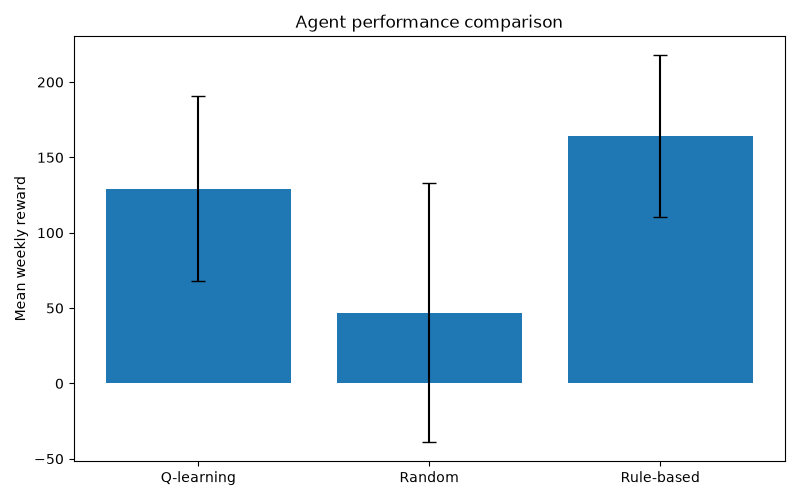
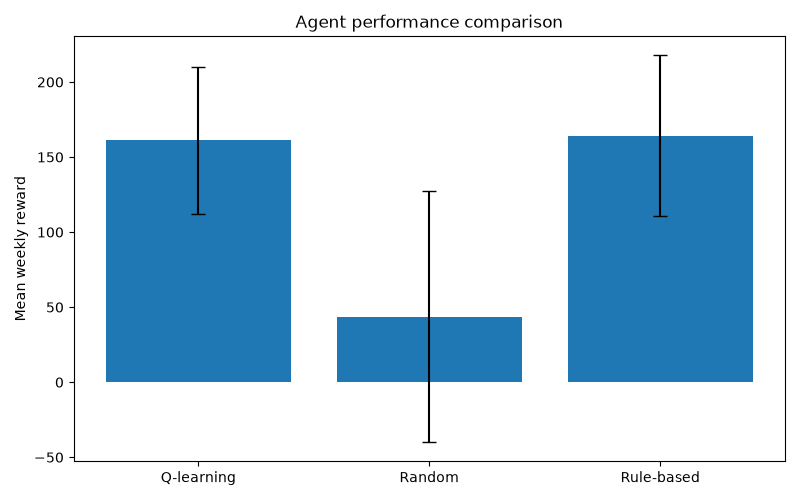
made things a little more seedy

diff --git a/agent.py b/agent.py
@@ -28,7 +28,7 @@ class EpisodeOutcome(NamedTuple):
 
 class RandomAgent:
     def __init__(self):
-        self.rngesus = random.Random(p.SEED)
+        self.rngesus = random.Random(p.DEFAULT_AGENT_SEED)
         self.history = []
 
 
@@ -215,7 +215,7 @@ class RuleBasedAgent:
 
 class QLearningAgent:
     def __init__(self):
-            self.rngesus = random.Random(p.SEED)
+            self.rngesus = random.Random(p.DEFAULT_AGENT_SEED)
             self.history = []
             self.start_q = np.zeros((5, 5, 15)) #tank states * orders * options
             self.running_q = np.zeros((5, 6, 10, 5)) #tank states * order states * steps * options

diff --git a/parameters.py b/parameters.py
@@ -1,5 +1,6 @@
 
-SEED = 1337
+DEFAULT_AGENT_SEED = 42069
+ENVIRONMENT_SEED = 404
 
 #region REWARD TABLE
 
@@ -44,13 +45,8 @@ AGENT_INFLUENCE = 0.9 #agent vs environment weight in weekly planning
 
 ALPHA = 0.2 #learning rate
 
-
-
 EPSILON_START = 0.9
-EPSILON_MIN = 0.1
-EPSILON_DECAY = 0.999999422
-
-
+EPSILON_MIN = 0.05
 
 GAMMA = 0.5 #importance of future rewards, only used in running_q
 

diff --git a/wheatmill.py b/wheatmill.py
@@ -15,7 +15,7 @@ class WheatMill():
 
     """
 
-    def __init__(self, seed= p.SEED): 
+    def __init__(self, seed= p.ENVIRONMENT_SEED): 
         self.current_stock = 0
         self.tank_capacity = 15
         self.rngesus = random.Random(seed)
